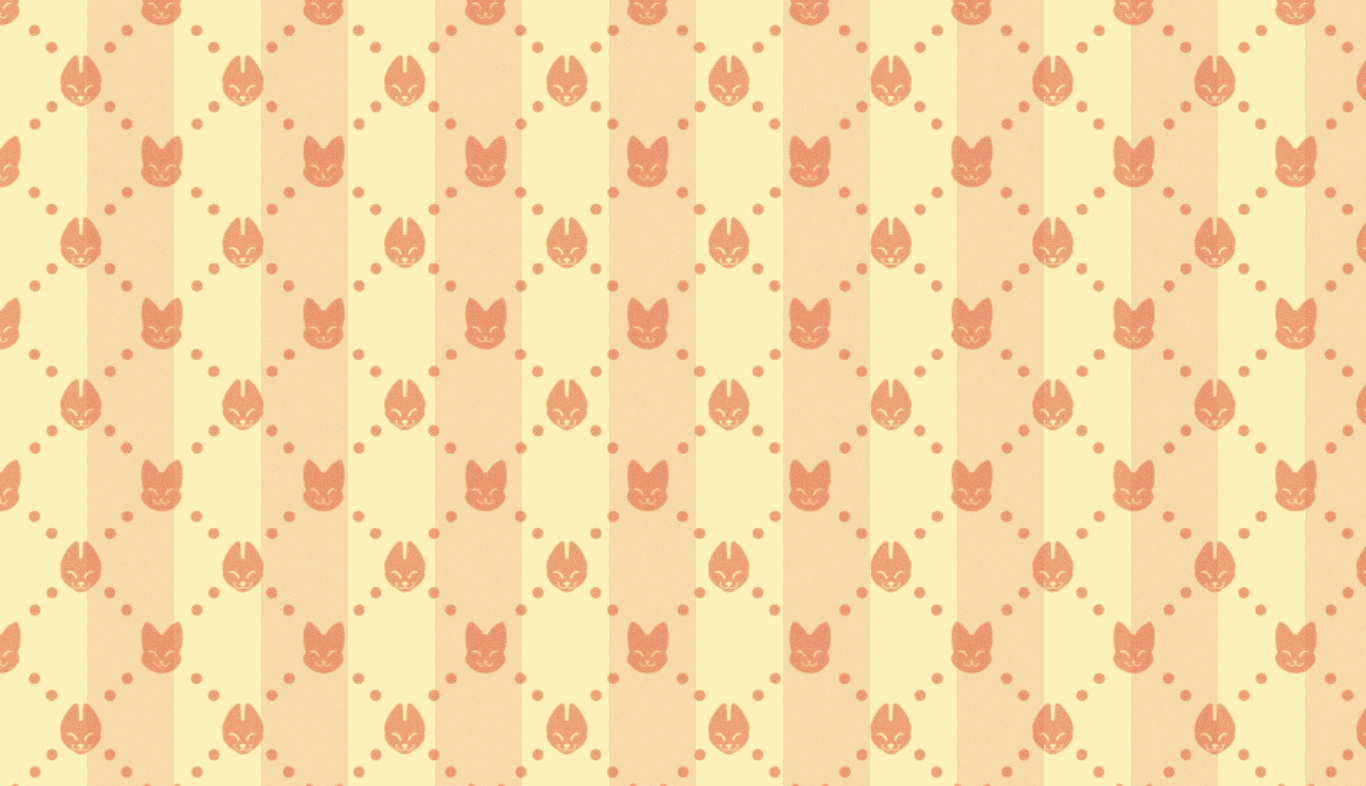
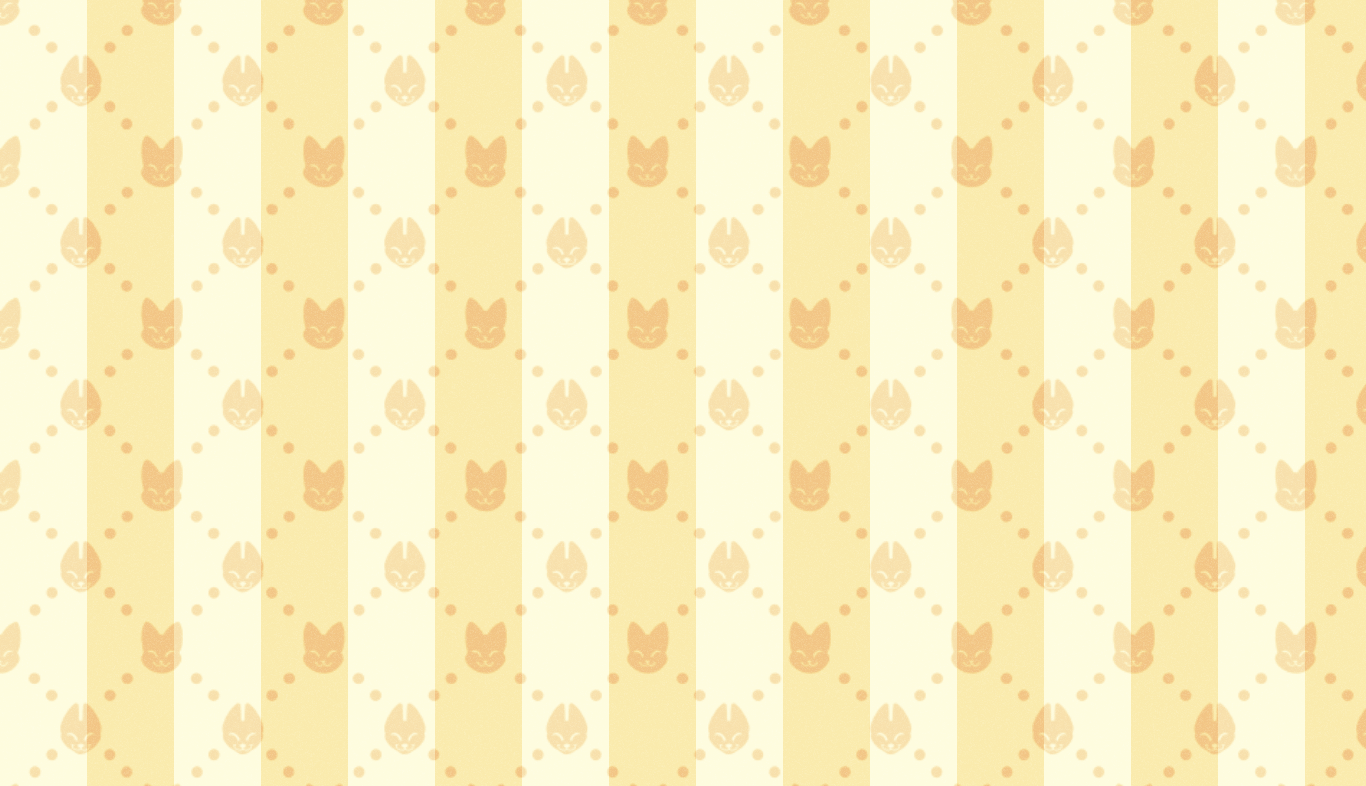
Changed styling on profile page

diff --git a/src/components/profile.react.js b/src/components/profile.react.js
@@ -126,56 +126,36 @@ class Profile extends Component {
 		return(
 			<div>
 				<div className="container home main-content profile">
-					<div className="row profile">
-						<div className="col-sm-1"/>
-						<div className="col-sm-5">
-							<h2>{this.state.firstName} {this.state.lastName}</h2>
+						<div className="col-sm-6 container profile-left">
+							<div className="col-sm-6 container profile-top-left">
+								<h2>{this.state.firstName} {this.state.lastName}</h2>
 
+								<img id="user-pic" src="http://www.setenterprises.com/var/setent/storage/images/about/personal/christopher-kristock/1185-4-eng-US/Christopher-Kristock_person.jpg"/>
 
-							<Carousel activeIndex={this.state.index} direction={this.state.direction} onSelect={this.handleSelect}>
-									<Carousel.Item>
-										 <img width={400} height={300} alt="400x300" src="http://www.setenterprises.com/var/setent/storage/images/about/personal/christopher-kristock/1185-4-eng-US/Christopher-Kristock_person.jpg"/>
-										 <Carousel.Caption>
-											 <h3>First slide label</h3>
-											 <p>Nulla vitae elit libero, a pharetra augue mollis interdum.</p>
-									 </Carousel.Caption>
-									</Carousel.Item>
-
-									<Carousel.Item>
-										 <img width={400} height={300} alt="400x300" src="http://www.setenterprises.com/var/setent/storage/images/about/personal/christopher-kristock/1185-4-eng-US/Christopher-Kristock_person.jpg"/>
-										 <Carousel.Caption>
-											 <h3>Second slide label</h3>
-											 <p>Lorem ipsum dolor sit amet, consectetur adipiscing elit.</p>
-										 </Carousel.Caption>
-								 </Carousel.Item>
-							</Carousel>
-
-
-
-
-
-						</div>
-						<div className="col-sm-5">
-							<h4>Description</h4>
-							<p id="description">{this.state.description}</p>
-
-							<h4>Info</h4>
-							{(this.state.organization)?
-								<text id="owner">Organization: {this.state.organization}<br/></text>:
-								<text id="owner">Organization: N/A<br/></text>
-							}
-							<text id="pet-location">Location: {this.state.city}, {this.state.state}<br/></text>
-						{/* Remember to remove button if just viewing a profile */}
-							<h4>Pets  <Button onClick={() => this._handleAdd(this.state.userId)}>Add pet?</Button></h4>
-							<div className="container allPets">
-								{petsArry}
 							</div>
-							<div className="col-sm-1"/>
-						</div>
-					</div>
 
-					<div className="row">
-                	</div>
+							<div className="col-sm-6 container profile-bot-left">
+								<b><Link id="settings-page" to="/settings">Settings</Link></b>
+								<h4 id="profile-title">Description</h4>
+								<p id="description">{this.state.description}</p>
+
+								<h4 id="profile-title">Info</h4>
+								{(this.state.organization)?
+									<text id="owner">Organization: {this.state.organization}<br/></text>:
+									<text id="owner">Organization: N/A<br/></text>
+								}
+								<text id="pet-location">Location: {this.state.city}, {this.state.state}<br/></text>
+
+							</div>
+						</div>
+
+						<div className="col-sm-6 container profile-right">
+						{/* Remember to remove button if just viewing a profile */}
+							<h4 id="profile-title">Pets <Button id="addPet" onClick={() => this._handleAdd(this.state.userId)}>Add pet?</Button></h4>
+							{/*<div className="container allPets">*/}
+								{petsArry}
+							{/*</div>*/}
+						</div>
 				</div>
 			</div>
 		);

diff --git a/public/style/profileStyle.css b/public/style/profileStyle.css
@@ -1,0 +1,65 @@
+.profile {
+	display:inline-flex;
+	padding:0px;
+	/*overflow:hidden;*/
+}
+
+div.col-sm-6.container.profile-right {
+	/*background-color:beige;*/
+	overflow:auto;
+}
+
+div.col-sm-6.container.profile-left {
+	/*background-color:blue;*/
+}
+
+div.col-sm-6.container.profile-top-left {
+	/*background-color:orange;*/
+	width:100%;
+	padding:0px;
+}
+
+div.col-sm-6.container.profile-bot-left {
+	/*background-color:yellow;*/
+	width:100%;
+	padding:0px;
+}
+
+
+
+/*div.container.allPets {
+	overflow:auto;
+}
+*/
+
+#addPet {
+	background-color:#db9128;
+	color:white;
+	float:right;
+}
+
+.addPet:hover, .addPet:active, .addPet:focus {
+	background-color:#fba62b;
+	border-color: #db9128;
+}
+
+#settings-page{
+	color:#db9128;
+	margin-top:5%;
+	font-size:1.2em;
+}
+
+.petName a {
+	color:#db9128;
+
+}
+
+#profile-title {
+	color:#802200;
+}
+
+/* NEW STYLING*/
+
+#user-pic {
+	width:50%;
+}

diff --git a/public/index.html b/public/index.html
@@ -8,6 +8,7 @@
 		<link rel="stylesheet" href="/style/signupStyle.css">
 		<link rel="stylesheet" href="/style/homeStyle.css">
 		<link rel="stylesheet" href="/style/messageStyle.css">
+		<link rel="stylesheet" href="/style/profileStyle.css">
 		<link rel="stylesheet" type="text/css" href="https://cdnjs.cloudflare.com/ajax/libs/slick-carousel/1.6.0/slick.min.css" />
 		<link rel="stylesheet" type="text/css" href="https://cdnjs.cloudflare.com/ajax/libs/slick-carousel/1.6.0/slick-theme.min.css" />
 

diff --git a/public/style/style.css b/public/style/style.css
@@ -15,7 +15,7 @@
 }*/
 body {
 	/*background-color: #f6b26b;*/
-  background:url('https://github.com/jdalpert/pettr/blob/PotatoBranch/src/components/assets/bg2.png?raw=true');
+  background:url('https://github.com/jdalpert/pettr/blob/be067804dde4fdbf73afc810dfb6e2a25ef21bea/src/components/assets/bg2.png?raw=true');
   /*color: #4f5a65;*/
 	/*color: #2b0000;*/
 	/*color: #1d1905;*/
